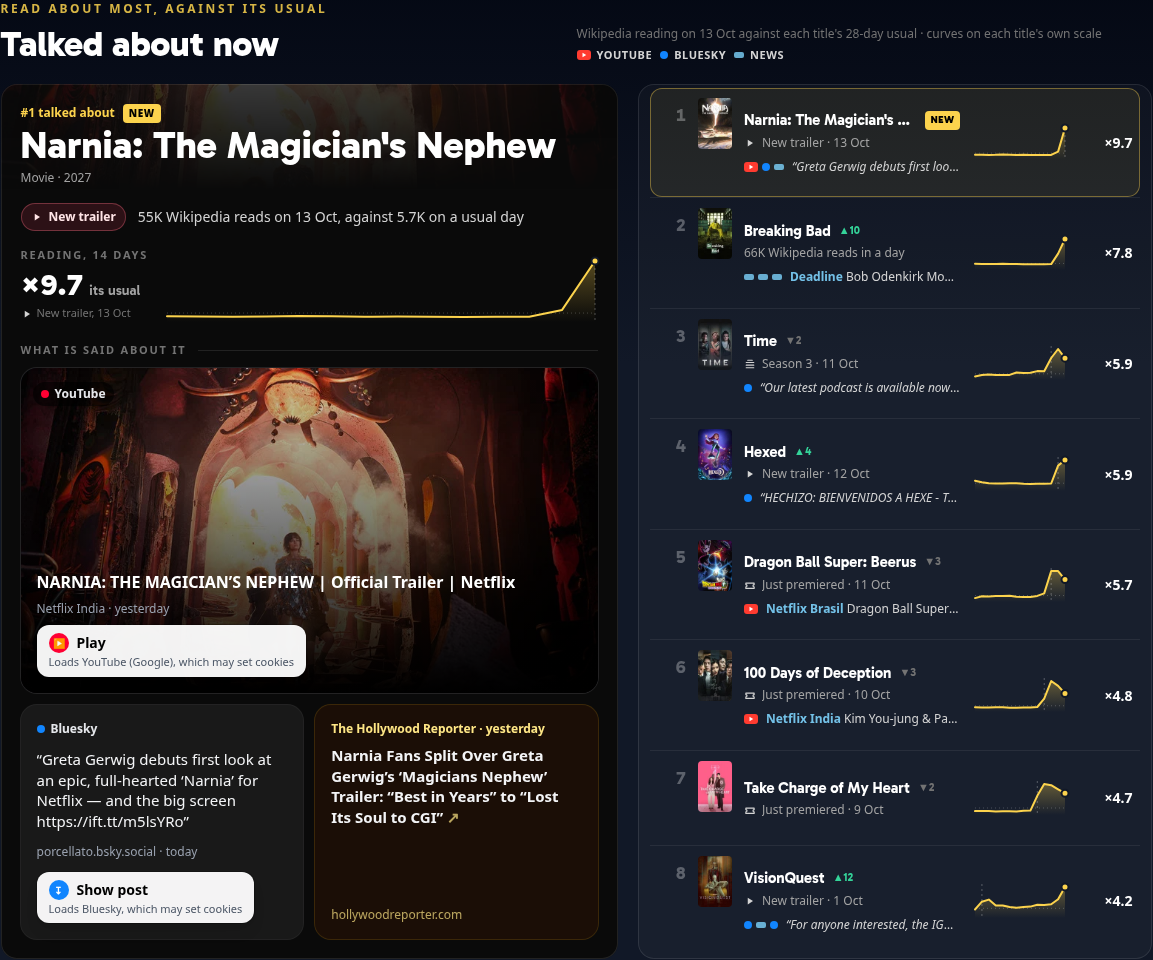
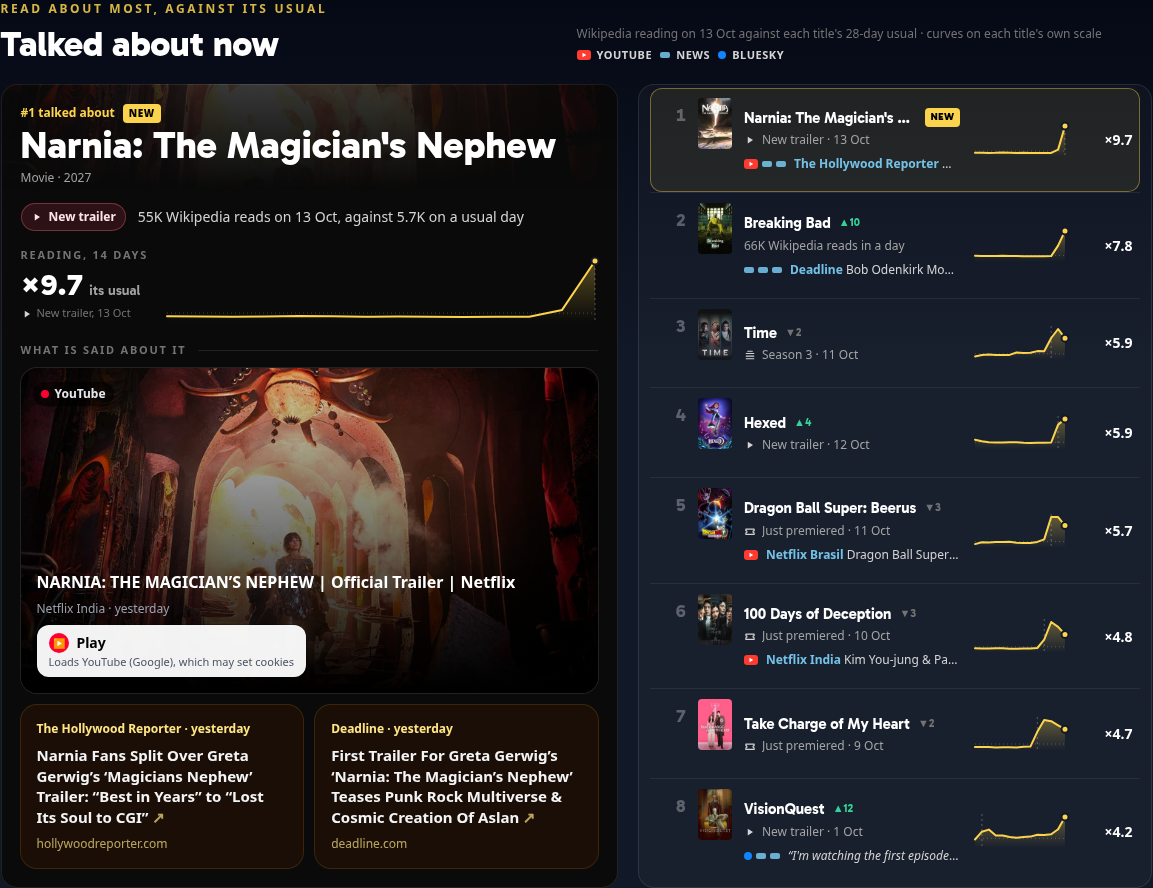
refactor(talked-about-now): one flag module for both surfaces, the report resets the row, English first (#557)
- The row is the `row` surface of #558's flag module: TALKED_ABOUT_NOW_ROW=off|preview|on with the shared
  TALKED_ABOUT_NOW_PREVIEW_USERS. server/features.server.ts and REC_TALKED_ABOUT_NOW / REC_PREVIEW_USERS go.
- A successful "wrong title?" report (POST /api/social/wrong-title) drops the row's shared answer before it is
  answered, so the next request reads again.
- Each piece says whether it reads as English (`isEnglish`, a guess by short words, accents and script; a .de
  publication never is). English pieces are picked first, and the board's preview line is an English post, else an
  English headline, else any language.

#558's files touched: flags.server.ts (one surface entry) and routes/api.social.wrong-title.ts (the reset after a
200), and two lines of .env.example.

Claude-Session: https://claude.ai/code/session_01Ro2fjsiPmz8TL1dTXjGPr8

diff --git a/goodwatch-webapp/app/domain/talked-about-now.ts b/goodwatch-webapp/app/domain/talked-about-now.ts
@@ -24,6 +24,8 @@ export type TalkedItem = {
 	sourceId: string | null
 	/** A YouTube video's id. */
 	video?: string
+	/** Whether the text reads as English (`isEnglish`): the start page is in English, so these come first. */
+	english: boolean
 }
 
 export type TalkedReasonKind =
@@ -287,12 +289,43 @@ export function itemOf(row: SocialRow): TalkedItem | null {
 		text: text.length > 400 ? `${text.slice(0, 399).trimEnd()}…` : text,
 		sourceId: row.source_id || null,
 		...(video ? { video } : {}),
+		english: isEnglish(text, row.url),
 	}
 }
 
-// The start page is in English: an article from a German publication comes after every other piece.
-const isGerman = (item: TalkedItem) =>
-	item.source === "rss" && hostOf(item.url).endsWith(".de")
+// Short words that are common in English and rare in the other languages the sources carry, and the other way round.
+// Words both use (a, an, in, do, die as an English verb...) are in neither list where they would mislead.
+const ENGLISH_WORDS = new Set(
+	"the and of to is are was were on for with this that it its it's at from by be been has have had just but not you your i i'm my we our they their he she his her what who how why about after will can all new first more than so if out up into over now".split(
+		" ",
+	),
+)
+const OTHER_WORDS = new Set(
+	"der die das und ist nicht mit auf für ein eine einen zu im dem von wie wann auch sich el la los las que y en para por una con del más le les une est et pour dans pas sur qui il di che per è uma não em os dos".split(
+		" ",
+	),
+)
+const NON_LATIN =
+	/[\u0370-\u03FF\u0400-\u04FF\u0590-\u05FF\u0600-\u06FF\u0900-\u097F\u0E00-\u0E7F\u3040-\u30FF\u4E00-\u9FFF\uAC00-\uD7AF]/
+const ACCENTS = /[ñãõçáíóúâêôàèìòùäöüß]/i
+
+/**
+ * Whether a piece reads as English, by its words: a guess, good enough to put English first. A headline without any
+ * of the short words ("Bob Odenkirk Mourns ‘Breaking Bad’ Co-Star") counts as English unless it has accents; an
+ * article from a German publication (a `.de` address) never does.
+ */
+export function isEnglish(text: string, url = ""): boolean {
+	if (/\.de$/.test(hostOf(url))) return false
+	if (NON_LATIN.test(text)) return false
+	const words = text.toLowerCase().match(/[\p{L}']+/gu) ?? []
+	let english = 0
+	let other = ACCENTS.test(text) ? 1 : 0
+	for (const word of words) {
+		if (ENGLISH_WORDS.has(word)) english++
+		else if (OTHER_WORDS.has(word)) other++
+	}
+	return english > other || (english === 0 && other === 0)
+}
 
 /**
  * A title's best few pieces, from its visible rows newest first: the newest video (one: the official channels post
@@ -304,9 +337,10 @@ export function pickItems(
 	limit = ITEMS_PER_TITLE,
 ): TalkedItem[] {
 	const items = rows.flatMap((row) => itemOf(row) ?? [])
+	// The start page is in English: a piece in another language comes after every English one.
 	const ordered = [
-		...items.filter((item) => !isGerman(item)),
-		...items.filter(isGerman),
+		...items.filter((item) => item.english),
+		...items.filter((item) => !item.english),
 	]
 	const picked: TalkedItem[] = []
 	const take = (item: TalkedItem | undefined) => {
@@ -327,13 +361,16 @@ export function pickItems(
 	)
 }
 
-/** The board row's one line: a voice first, else a headline, else the video. */
+/** The board row's one line: an English post, else an English headline, else a post or a headline in any language, else the video. */
 export function previewOf(items: TalkedItem[]): TalkedItem | null {
+	const voice = (item: TalkedItem) =>
+		item.source === "bluesky" || item.source === "mastodon"
+	const headline = (item: TalkedItem) => item.source === "rss"
 	return (
-		items.find(
-			(item) => item.source === "bluesky" || item.source === "mastodon",
-		) ??
-		items.find((item) => item.source === "rss") ??
+		items.find((item) => voice(item) && item.english) ??
+		items.find((item) => headline(item) && item.english) ??
+		items.find(voice) ??
+		items.find(headline) ??
 		items[0] ??
 		null
 	)

diff --git a/goodwatch-webapp/app/domain/talked-about-now.test.ts b/goodwatch-webapp/app/domain/talked-about-now.test.ts
@@ -6,6 +6,7 @@ import type { SocialRow } from "./talked-about-now.ts"
 const {
 	compact,
 	dayBefore,
+	isEnglish,
 	itemOf,
 	liftLabel,
 	moveOf,
@@ -226,19 +227,63 @@ test("without a video or a voice, the newest pieces fill the three", () => {
 	assert.deepEqual(pickItems([]), [])
 })
 
-test("a German publication's article comes after every other piece", () => {
+test("a piece in another language comes after every English one", () => {
 	const items = pickItems([
-		row("rss", "de", 1, {
+		row("rss", "german", 1, {
 			url: "https://www.filmstarts.de/nachrichten/1.html",
 		}),
-		row("rss", "en", 5),
+		row("rss", "english", 5),
 		row("mastodon", "m1", 9, { url: "https://mastodon.social/@a/1" }),
 	])
 	assert.deepEqual(
 		items.map((item) => item.id),
-		["m1", "en", "de"],
+		["m1", "english", "german"],
 	)
 	assert.equal(items[2].publisher, "Filmstarts")
+	// A Portuguese post gives its place to an English one, however much older.
+	assert.deepEqual(
+		pickItems([
+			row("bluesky", "pt", 1, {
+				text: "Netflix demitirá cerca de 1.000 funcionários em maior corte desde 2022",
+			}),
+			row("bluesky", "en", 20, {
+				text: "I'm watching the first episode and it is so good",
+			}),
+		]).map((item) => item.id),
+		["en", "pt"],
+	)
+})
+
+test("whether a piece reads as English", () => {
+	for (const text of [
+		"Greta Gerwig debuts first look at an epic, full-hearted ‘Narnia’ for Netflix — and the big screen",
+		"Bob Odenkirk Mourns ‘Breaking Bad’ Co-Star RJ Mitte Following Death",
+		"VisionQuest Doesn’t Address the MCU’s AI Problem",
+		"NARNIA: THE MAGICIAN’S NEPHEW | Official Trailer | Netflix",
+		"Die Hard is the best Christmas movie and I will not take questions",
+	])
+		assert.equal(isEnglish(text), true, text)
+	for (const text of [
+		"Wann kommt VisionQuest Folge 3 zu Disney+? Die verwirrende Veröffentlichung der Marvel-Serie",
+		"Netflix demitirá cerca de 1.000 funcionários em maior corte desde 2022",
+		"Dragon Ball Super: Beerus | Trailer oficial | Netflix con subtítulos",
+		"Le film est sorti en salle, et il est très bon",
+		"《纳尼亚传奇》预告片",
+		"Нарния: первый трейлер",
+	])
+		assert.equal(isEnglish(text), false, text)
+	// An article of a German publication, whatever its words.
+	assert.equal(
+		isEnglish(
+			"Street Fighter (2026)",
+			"https://www.filmstarts.de/kritiken/1.html",
+		),
+		false,
+	)
+	assert.equal(
+		isEnglish("Street Fighter (2026)", "https://variety.com/2026/1/"),
+		true,
+	)
 })
 
 test("a row without what a card needs is no piece", () => {
@@ -260,7 +305,7 @@ test("a row without what a card needs is no piece", () => {
 	)
 })
 
-test("the preview line is a voice first, else a headline, else the video", () => {
+test("the preview line is a voice first, else a headline, else the video, English before any other language", () => {
 	const video = itemOf(row("youtube", "v", 1))
 	const headline = itemOf(row("rss", "h", 1))
 	const post = itemOf(row("bluesky", "b", 1))
@@ -269,6 +314,23 @@ test("the preview line is a voice first, else a headline, else the video", () =>
 	assert.equal(previewOf([video, headline]), headline)
 	assert.equal(previewOf([video]), video)
 	assert.equal(previewOf([]), null)
+	const spanish = itemOf(
+		row("bluesky", "es", 1, {
+			text: "Hechizo: bienvenidos a la nueva serie, que buena",
+		}),
+	)
+	const german = itemOf(
+		row("rss", "de", 1, {
+			url: "https://www.moviepilot.de/news/1",
+			text: "Neu auf Disney+: Die Fortsetzung",
+		}),
+	)
+	assert.ok(spanish && german)
+	assert.equal(spanish.english, false)
+	// An English headline goes before a post in another language; without English, any language.
+	assert.equal(previewOf([video, spanish, headline]), headline)
+	assert.equal(previewOf([video, spanish, german]), spanish)
+	assert.equal(previewOf([video, german]), german)
 })
 
 test("the row's words", () => {

diff --git a/goodwatch-webapp/app/routes/api.talked-about-now.ts b/goodwatch-webapp/app/routes/api.talked-about-now.ts
@@ -1,9 +1,12 @@
 // The "Talked about now" row's data (#557), asked for by the start page once the visitor goes below the room
 // (ui/talked-about-now/start-row). The same for every visitor: with the feature on, any cache may keep it for a few
-// minutes; in preview it answers only the members in REC_PREVIEW_USERS, and nothing keeps it.
+// minutes; in preview it answers only the members in TALKED_ABOUT_NOW_PREVIEW_USERS, and nothing keeps it.
 import { type LoaderFunctionArgs, json } from "@remix-run/node"
 import type { TalkedRow } from "~/domain/talked-about-now"
-import { getFeatureMode, isEnabledForRequest } from "~/server/features.server"
+import {
+	talkedAboutNowEnabled,
+	talkedAboutNowMode,
+} from "~/server/talked-about-now/flags.server"
 
 export type TalkedAnswer = { row: TalkedRow | null }
 
@@ -13,13 +16,26 @@ const PUBLIC = "public, max-age=300, s-maxage=300, stale-while-revalidate=300"
 const PRIVATE = "private, no-store"
 
 export async function loader({ request }: LoaderFunctionArgs) {
-	const open = getFeatureMode("talkedAboutNow") === "on"
-	if (!(await isEnabledForRequest("talkedAboutNow", request)))
+	const mode = talkedAboutNowMode("row")
+	const open = mode === "on"
+	// Only a preview asks who sent the request: off and on are the same for everyone.
+	const enabled =
+		mode === "preview"
+			? talkedAboutNowEnabled(
+					"row",
+					await (await import("~/utils/auth")).getUserIdFromRequest({
+						request,
+					}),
+				)
+			: open
+	if (!enabled)
 		throw new Response("Not found", {
 			status: 404,
 			headers: { "Cache-Control": PRIVATE },
 		})
-	const { getTalkedAboutNow } = await import("~/server/talked-about-now/start-row.server")
+	const { getTalkedAboutNow } = await import(
+		"~/server/talked-about-now/start-row.server"
+	)
 	const row = await getTalkedAboutNow()
 	return json<TalkedAnswer>(
 		{ row },

diff --git a/goodwatch-webapp/app/server/talked-about-now/start-row.test.ts b/goodwatch-webapp/app/server/talked-about-now/start-row.test.ts
@@ -5,7 +5,9 @@ import "../title-filter/test-alias.ts"
 import type { SocialRow } from "~/domain/talked-about-now"
 import type { TitleDisplay } from "../title-cards.server.ts"
 
-const { readTalkedAboutNow, socialQuery } = await import("./start-row.server.ts")
+const { readTalkedAboutNow, socialQuery } = await import(
+	"./start-row.server.ts"
+)
 const { titleKey } = await import("~/utils/title-key")
 
 const entry = (kind: "movie" | "tv", tmdbId: number, score: number) => ({
@@ -203,4 +205,31 @@ test("the social read asks for exactly the board's titles, with social identitie
 	)
 	assert.deepEqual(lanes.params, ["movie", 1, "vector_context", "fuzzy"])
 	assert.ok(lanes.sql.includes("l.lane NOT IN (?, ?)"))
+})
+
+test("the row is the flag module's `row` surface, with the title section's preview list", async () => {
+	const { talkedAboutNowEnabled, talkedAboutNowMode } = await import(
+		"./flags.server.ts"
+	)
+	assert.equal(talkedAboutNowMode("row", {}), "off")
+	assert.equal(
+		talkedAboutNowMode("row", { TALKED_ABOUT_NOW_ROW: " On " }),
+		"on",
+	)
+	// Each surface reads its own variable.
+	assert.equal(
+		talkedAboutNowMode("row", { TALKED_ABOUT_NOW_TITLE: "on" }),
+		"off",
+	)
+	const preview = {
+		TALKED_ABOUT_NOW_ROW: "preview",
+		TALKED_ABOUT_NOW_PREVIEW_USERS: "u-1, u-2",
+	}
+	assert.equal(talkedAboutNowEnabled("row", "u-2", preview), true)
+	assert.equal(talkedAboutNowEnabled("row", "u-9", preview), false)
+	assert.equal(talkedAboutNowEnabled("row", null, preview), false)
+	assert.equal(
+		talkedAboutNowEnabled("row", null, { TALKED_ABOUT_NOW_ROW: "on" }),
+		true,
+	)
 })

diff --git a/goodwatch-webapp/app/server/living-room/tv-loader.server.ts b/goodwatch-webapp/app/server/living-room/tv-loader.server.ts
@@ -12,7 +12,7 @@
 // saved services (`loadTvServices`), filled up with Netflix and Prime Video.
 import { json } from "@remix-run/node"
 import { getLocaleFromRequest } from "~/server/cache-identity.server"
-import { isEnabled } from "~/server/features.server"
+import { talkedAboutNowEnabled } from "~/server/talked-about-now/flags.server"
 import { getTonightParts } from "~/server/home-doors.server"
 import type { Taste } from "~/server/taste/index.server"
 import { loadMemberTaste } from "~/server/taste/member.server"
@@ -84,7 +84,7 @@ export async function loadTvHome(request: Request) {
 	})
 	// "Talked about now" below the room (#557): only whether it is there. The row asks for its data itself once the
 	// visitor goes below, so with it on a guest's HTML stays the same for every guest, and grows by one field.
-	const talked = isEnabled("talkedAboutNow", user ? { userId: user.id } : null)
+	const talked = talkedAboutNowEnabled("row", user?.id)
 		? { talked: true as const }
 		: {}
 	if (!user) return { data: { ...guestHome(await start), ...talked }, headers }

diff --git a/goodwatch-webapp/app/routes/api.social.wrong-title.ts b/goodwatch-webapp/app/routes/api.social.wrong-title.ts
@@ -1,15 +1,19 @@
 import type { ActionFunctionArgs } from "@remix-run/node"
 import { talkedAboutNowEnabled } from "~/server/talked-about-now/flags.server"
 import { getSocialStore } from "~/server/talked-about-now/social-store.server"
+import { forgetTalkedAboutNow } from "~/server/talked-about-now/start-row.server"
 import { handleWrongTitle } from "~/server/talked-about-now/wrong-title.server"
 import { getUserIdFromRequest } from "~/utils/auth"
 
 // POST /api/social/wrong-title: see server/talked-about-now/wrong-title.server.ts.
 export async function action({ request }: ActionFunctionArgs) {
-	return handleWrongTitle(request, {
+	const response = await handleWrongTitle(request, {
 		store: () => getSocialStore(),
 		enabled: async () => talkedAboutNowEnabled("title", await getUserIdFromRequest({ request })),
 	})
+	// The start page's row (#557) keeps one answer for every visitor: it reads again before the report is answered.
+	if (response.status === 200) forgetTalkedAboutNow()
+	return response
 }
 
 export function loader() {

diff --git a/goodwatch-webapp/app/server/talked-about-now/flags.server.ts b/goodwatch-webapp/app/server/talked-about-now/flags.server.ts
@@ -16,6 +16,8 @@ const MODES: readonly FeatureMode[] = ["off", "preview", "on"]
 export const SURFACE_VARIABLES = {
 	/** The section on title pages (#558). */
 	title: "TALKED_ABOUT_NOW_TITLE",
+	/** The row below the start page's room (#557). */
+	row: "TALKED_ABOUT_NOW_ROW",
 } as const
 
 export type Surface = keyof typeof SURFACE_VARIABLES

diff --git a/docs/implementation/talked-about-now/start-row/README.md b/docs/implementation/talked-about-now/start-row/README.md
@@ -13,11 +13,11 @@ visitor.
 
 ## Behind a flag
 
-`REC_TALKED_ABOUT_NOW=off|preview|on` (`app/server/features.server.ts`), default off. Preview shows it only to the
-members in `REC_PREVIEW_USERS` (Supabase user ids, separated by commas). Read on every request, so a container restart
-applies a change. With it off, the start page is byte for byte what it was, and `/api/talked-about-now` answers 404.
-
-The flag module comes back in a smaller form: `a02f37bb` removed the old one when the last `REC_*` flag went.
+`TALKED_ABOUT_NOW_ROW=off|preview|on`, default off: the `row` surface of the map's flag module
+(`app/server/talked-about-now/flags.server.ts`, from #558, whose title section is `TALKED_ABOUT_NOW_TITLE`). Preview
+shows it only to the members in `TALKED_ABOUT_NOW_PREVIEW_USERS` (Supabase user ids, separated by commas), the same
+list for both surfaces. Read on every request, so a container restart applies a change. With it off, the start page is
+byte for byte what it was, and `/api/talked-about-now` answers 404.
 
 ## The start page stays as it was
 
@@ -68,9 +68,14 @@ went into the shell chunk that every page loads (rule 3 in `vite.config.js`).
    the titles show without what is said.
 
 A title's pieces (`pickItems`): the newest video (only one: the official channels post the same trailer more than
-once), a post, a headline, then the newest of the rest; at most three. An article from a German publication comes
-after every other piece, because the start page is in English. The board's preview line is a post first, else a
-headline, else the video.
+once), a post, a headline, then the newest of the rest; at most three. The start page is in English, so a piece in
+another language comes after every English one. The board's preview line is an English post first, else an English
+headline, else a post or a headline in any language, else the video.
+
+Whether a piece reads as English is a guess on the server (`isEnglish`): short words common in English against short
+words common in German, Spanish, French, Italian and Portuguese, accents, and non-Latin scripts. An article from a
+`.de` address is never English. A headline with none of those words ("Bob Odenkirk Mourns ‘Breaking Bad’ Co-Star")
+counts as English. Social discovery stores no language, so there is nothing better to read yet.
 
 The UI names the source and the window ("Wikipedia reading on 13 Oct against each title's 28-day usual"), as #540
 asked: the signal measures reading, not conversation.
@@ -95,7 +100,7 @@ A dev server on production Crate (read-only) with no Valkey and no `.env` in the
 
 ```sh
 set -a; . <main checkout>/goodwatch-webapp/.env; set +a
-REDIS_HOST= REDIS_HOST2= REDIS_HOST3= REDIS_PORT= REDIS_PASS= REC_TALKED_ABOUT_NOW=on \
+REDIS_HOST= REDIS_HOST2= REDIS_HOST3= REDIS_PORT= REDIS_PASS= TALKED_ABOUT_NOW_ROW=on \
   npx remix vite:dev --port 3161 --strictPort
 ```
 
@@ -113,7 +118,8 @@ Tests: `node --test app/domain/talked-about-now.test.ts app/server/talked-about-
 
 ## After merge
 
-- Set `REC_TALKED_ABOUT_NOW=preview` and the owner's id in `REC_PREVIEW_USERS` in Coolify, and restart. Then `on`.
+- Set `TALKED_ABOUT_NOW_ROW=preview` and the owner's id in `TALKED_ABOUT_NOW_PREVIEW_USERS` in Coolify, and restart.
+  Then `on`.
 - A "wrong title?" report (#558's endpoint) should call `forgetTalkedAboutNow()`, so the next request reads again.
   Without that call, a reported link can stay in the row for up to the 10 minutes the process keeps its answer. The
   route asks for 5 minutes plus 5 stale in shared caches, but `applyCachePolicy` turns a guest's data request into
